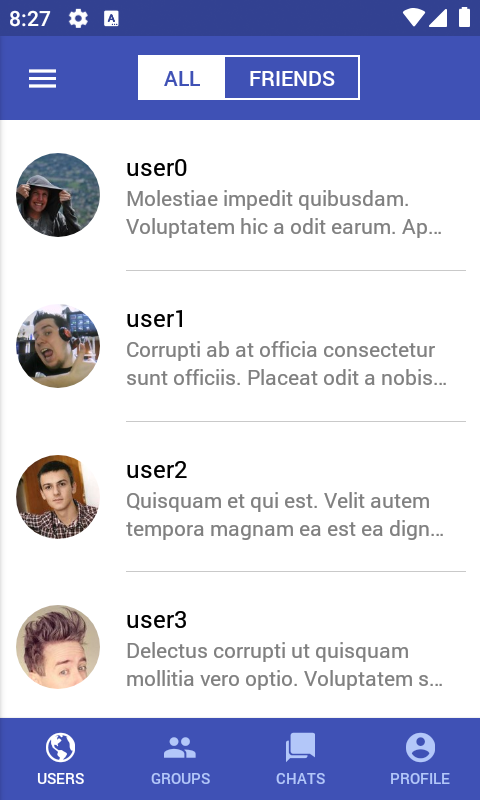
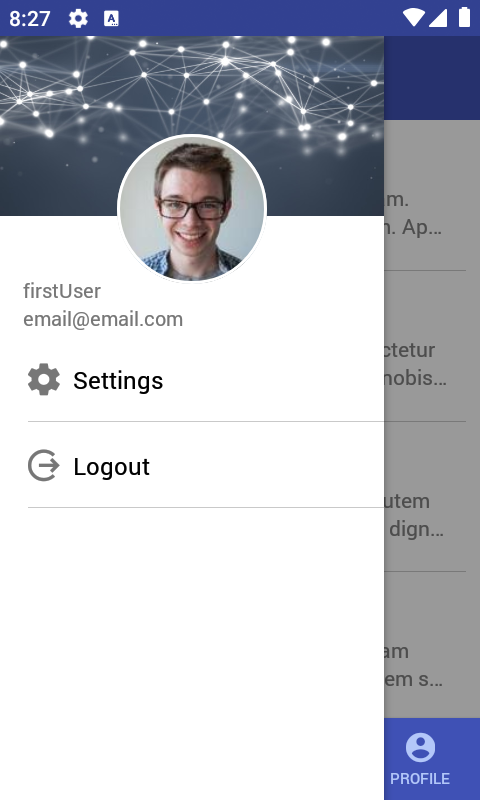
add two screenshots

diff --git a/README.md b/README.md
@@ -6,7 +6,7 @@ Chat app made with React Native, NativeBase, Apollo Hooks and Sequelize.
 
 - JWT auth with email and password strategy
 - Users, Groups, Chats, Profile, Login, Register, Group Details screens
-- Users/Friends, Public/Private Groups, All Users/Group Users tabs, Drawer
+- Users/Friends, Public/Private Groups, All Users/Group Users tabs, Drawer, Toasts
 - queries for users, friends, chats, public and private groups
 - create, edit, delete group, add, remove user from group mutations with cache updates
 - add, remove friend mutations with cache updates
@@ -31,8 +31,8 @@ Chat app made with React Native, NativeBase, Apollo Hooks and Sequelize.
 ### Server
 
 - `cd server` and `npm install` to install the dependecies
-- set database connection in the `server/src/data/connectors.js'` for example `new Sequelize('postgres://dbuser:password@localhost:5432/chat',...`
-- uncomment `db.sync({ force: true }).then(async () => await seed()).catch(error => console.log(error));` in the `server/src/data/connectors.js'` to seed the database
+- set database connection in the `server/src/data/connectors.js` for example `new Sequelize('postgres://dbuser:password@localhost:5432/chat',...`
+- uncomment `db.sync({ force: true }).then(async () => await seed()).catch(error => console.log(error));` in the `server/src/data/connectors.js` to seed the database
 - `npm run start` http server and GraphQL playground wil be loaded on `http://localhost:5000` and subscriptions on the `ws://localhost/graphql`
 
 ### Client
